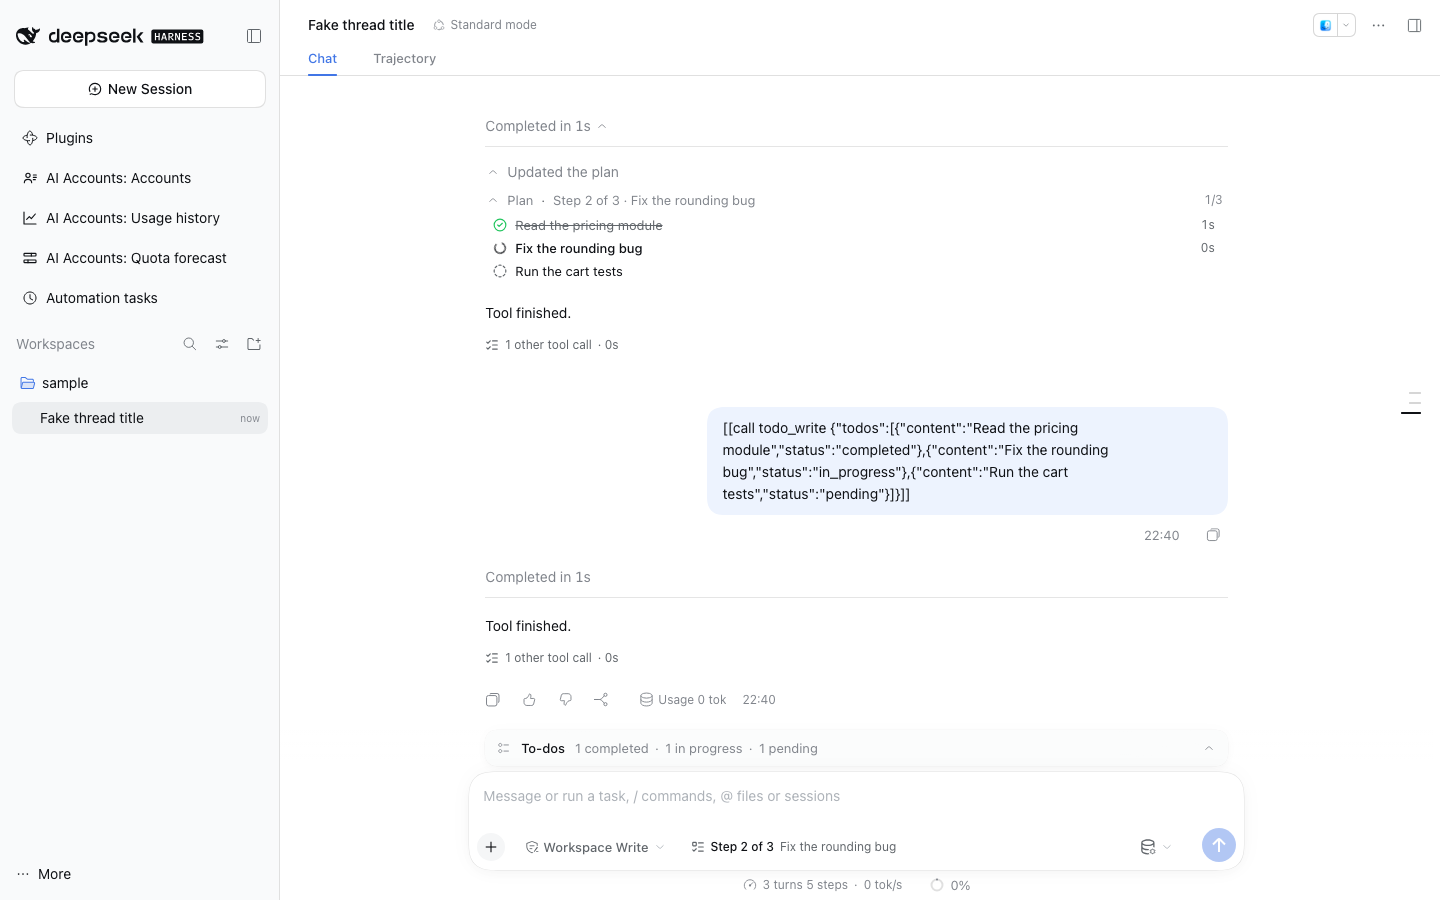
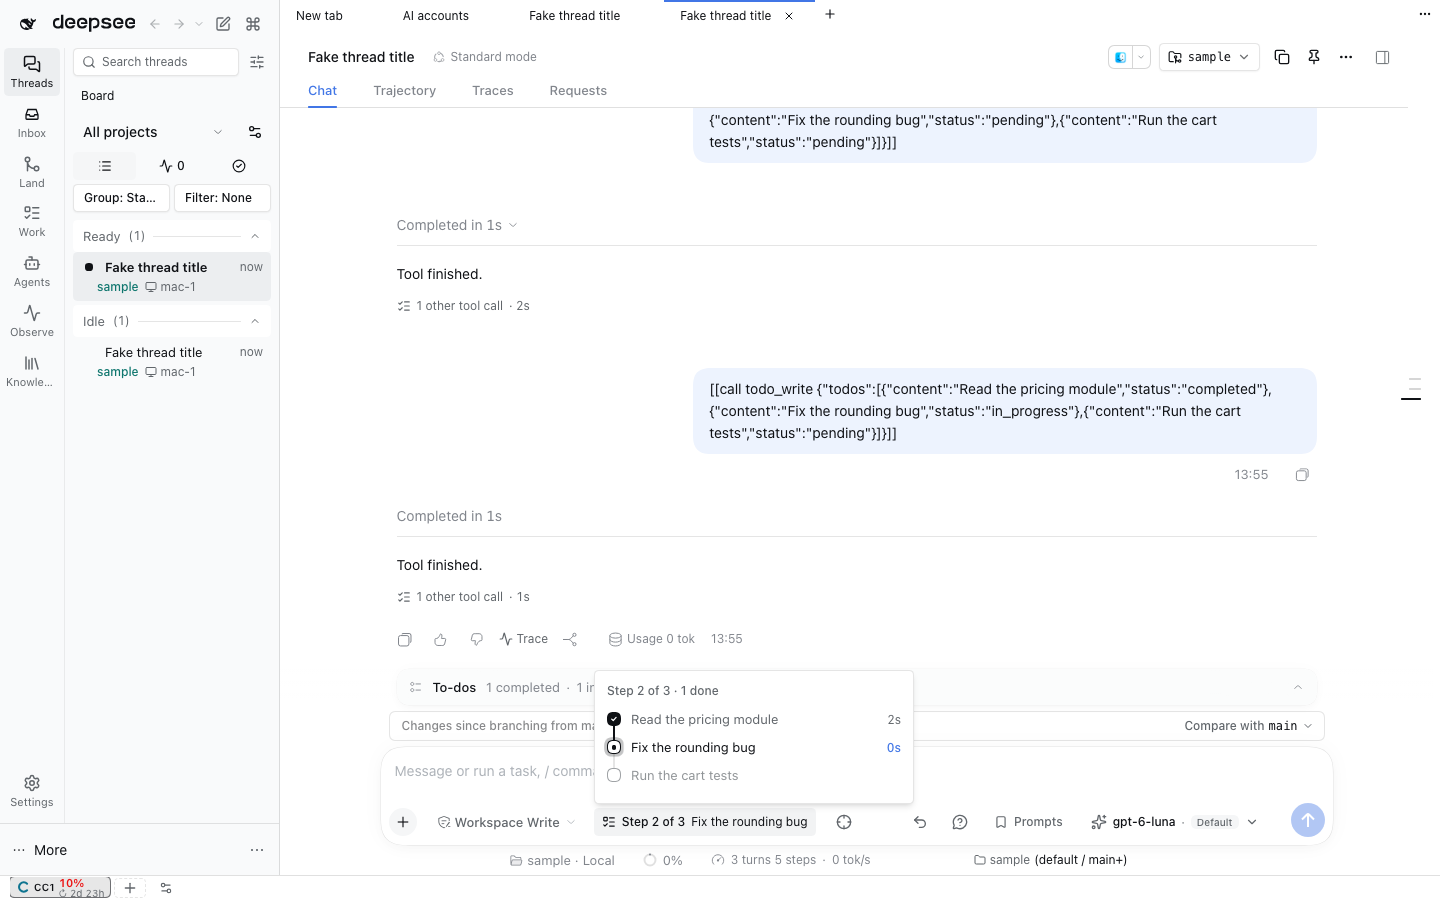
feat(agent-plan): draw plan steps with the kit StepTrail
The plan card and the pinned-step popover listed steps as glyph rows with a
line-through for finished ones. A plan is the case StepTrail exists for: done
steps pop a check and fill the connector down to the current step, which
pulses, and pending steps stay hollow, so progress reads at a glance.

StepTrail gains size="sm" (24 px rows, small glyphs, body text) to fit a
card and a popover, and an accessibleLabel per step so each row keeps its
'Step N: …, status' name. With timing on, a finished step shows its duration
and the current step its running time.

diff --git a/plugins/@dshfiles/plugin-ui/src/components/motion/step-trail.tsx b/plugins/@dshfiles/plugin-ui/src/components/motion/step-trail.tsx
@@ -26,22 +26,26 @@ export interface TrailStep {
   readonly gateLabel?: React.ReactNode
   /** Substeps, shown under the step while it is active. */
   readonly substeps?: readonly TrailSubstep[]
+  /** The row's accessible name ("Step 2: Fix the bug, in progress"); defaults to its text. */
+  readonly accessibleLabel?: string
 }
 
 export interface StepTrailProps extends Omit<React.HTMLAttributes<HTMLOListElement>, 'children'> {
   readonly steps: readonly TrailStep[]
   readonly onStepClick?: (step: TrailStep) => void
+  /** `sm` fits a card or popover: smaller glyphs, 24 px rows, body-size text. */
+  readonly size?: 'sm' | 'default'
 }
 
 /**
  * An agent's plan as a vertical trail: finished steps get a check that pops in and the connector fills down to the
  * next one, the current step pulses and unfolds its substeps, and a gated step shows the approval it will ask for.
  */
-export function StepTrail({ steps, onStepClick, className, ...props }: StepTrailProps) {
+export function StepTrail({ steps, onStepClick, size = 'default', className, ...props }: StepTrailProps) {
   return (
     <ol aria-label="Plan" className={cn('dshx:@container dshx:flex dshx:flex-col', className)} {...props}>
       {steps.map((step, index) => (
-        <TrailRow key={step.id} step={step} last={index === steps.length - 1} onStepClick={onStepClick} />
+        <TrailRow key={step.id} step={step} last={index === steps.length - 1} onStepClick={onStepClick} size={size} />
       ))}
     </ol>
   )
@@ -51,11 +55,14 @@ function TrailRow({
   step,
   last,
   onStepClick,
+  size,
 }: {
   readonly step: TrailStep
   readonly last: boolean
   readonly onStepClick: ((step: TrailStep) => void) | undefined
+  readonly size: 'sm' | 'default'
 }) {
+  const small = size === 'sm'
   const fillRef = React.useRef<HTMLSpanElement>(null)
   const filled = step.status === 'done'
   const firstFill = React.useRef(true)
@@ -76,7 +83,8 @@ function TrailRow({
     <span
       className={cn(
         // Narrow panes wrap to two lines instead of cutting the step name next to a pill.
-        'dshx:min-w-0 dshx:flex-1 dshx:truncate dshx:text-[15px] dshx:motion-safe:transition-colors dshx:@max-pane-narrow:line-clamp-2 dshx:@max-pane-narrow:text-sm dshx:@max-pane-narrow:leading-5 dshx:@max-pane-narrow:whitespace-normal',
+        'dshx:min-w-0 dshx:flex-1 dshx:truncate dshx:motion-safe:transition-colors dshx:@max-pane-narrow:line-clamp-2 dshx:@max-pane-narrow:text-sm dshx:@max-pane-narrow:leading-5 dshx:@max-pane-narrow:whitespace-normal',
+        small ? 'dshx:text-sm' : 'dshx:text-[15px]',
         step.status === 'done' && 'dshx:text-muted-foreground',
         step.status === 'active' && 'dshx:text-foreground',
         step.status === 'pending' && 'dshx:text-muted-foreground/70',
@@ -88,10 +96,18 @@ function TrailRow({
   )
 
   return (
-    <li className="dshx:relative dshx:flex dshx:gap-3.5" aria-current={step.status === 'active' ? 'step' : undefined}>
-      <div className="dshx:relative dshx:flex dshx:w-5 dshx:shrink-0 dshx:flex-col dshx:items-center">
-        <span className="dshx:flex dshx:h-8 dshx:items-center">
-          <StepGlyph status={step.status === 'gated' ? 'locked' : step.status} />
+    <li
+      className={cn('dshx:relative dshx:flex', small ? 'dshx:gap-2.5' : 'dshx:gap-3.5')}
+      aria-current={step.status === 'active' ? 'step' : undefined}
+      aria-label={step.accessibleLabel}
+    >
+      <div className={cn('dshx:relative dshx:flex dshx:shrink-0 dshx:flex-col dshx:items-center', small ? 'dshx:w-3.5' : 'dshx:w-5')}>
+        <span className={cn('dshx:flex dshx:items-center', small ? 'dshx:h-6' : 'dshx:h-8')}>
+          <StepGlyph
+            aria-hidden={step.accessibleLabel !== undefined || undefined}
+            size={small ? 'sm' : 'default'}
+            status={step.status === 'gated' ? 'locked' : step.status}
+          />
         </span>
         {!last ? (
           <span aria-hidden className="dshx:relative dshx:-my-1.5 dshx:w-[1.5px] dshx:flex-1 dshx:overflow-hidden dshx:rounded-full dshx:bg-border">
@@ -100,7 +116,12 @@ function TrailRow({
         ) : null}
       </div>
       <div className="dshx:flex dshx:min-w-0 dshx:flex-1 dshx:flex-col dshx:pb-1">
-        <div className="dshx:flex dshx:min-h-8 dshx:items-center dshx:gap-3 dshx:@max-pane-narrow:gap-2 dshx:@max-pane-narrow:py-1.5">
+        <div
+          className={cn(
+            'dshx:flex dshx:items-center dshx:gap-3 dshx:@max-pane-narrow:gap-2',
+            small ? 'dshx:min-h-6' : 'dshx:min-h-8 dshx:@max-pane-narrow:py-1.5',
+          )}
+        >
           {onStepClick !== undefined ? (
             <button
               type="button"
@@ -112,7 +133,7 @@ function TrailRow({
           ) : (
             label
           )}
-          <StepMeta step={step} />
+          <StepMeta step={step} small={small} />
         </div>
         <AutoHeight>{substeps.length > 0 ? <Substeps substeps={substeps} /> : null}</AutoHeight>
       </div>
@@ -120,14 +141,14 @@ function TrailRow({
   )
 }
 
-function StepMeta({ step }: { readonly step: TrailStep }) {
+function StepMeta({ step, small }: { readonly step: TrailStep; readonly small: boolean }) {
   const ref = React.useRef<HTMLSpanElement>(null)
   useEnter(ref, 'blurIn', { duration: 0.3 }, step.status)
   let content: React.ReactNode = null
   if (step.status === 'done' && step.meta !== undefined)
-    content = <span className="dshx:text-sm dshx:text-muted-foreground dshx:tabular-nums">{step.meta}</span>
+    content = <span className={cn('dshx:text-muted-foreground dshx:tabular-nums', small ? 'dshx:text-xs' : 'dshx:text-sm')}>{step.meta}</span>
   else if (step.status === 'active' && step.activeLabel !== undefined)
-    content = <span className="dshx:text-sm dshx:font-medium dshx:text-info">{step.activeLabel}</span>
+    content = <span className={cn('dshx:font-medium dshx:text-info dshx:tabular-nums', small ? 'dshx:text-xs' : 'dshx:text-sm')}>{step.activeLabel}</span>
   else if (step.status === 'gated' && step.gateLabel !== undefined)
     content = (
       <span className="dshx:rounded-full dshx:bg-warning/15 dshx:px-2.5 dshx:py-0.5 dshx:text-[13px] dshx:font-medium dshx:whitespace-nowrap dshx:text-warning dshx:@max-pane-narrow:px-2 dshx:@max-pane-narrow:text-xs">

diff --git a/plugins/@dshfiles/agent-plan/src/plan-steps.tsx b/plugins/@dshfiles/agent-plan/src/plan-steps.tsx
@@ -1,38 +1,26 @@
-import { StepGlyph, type StepGlyphStatus } from '@dshfiles/plugin-ui/components/motion/step-glyph'
-import { cn } from '@dshfiles/plugin-ui/lib/utils'
+import { StepTrail, type TrailStepStatus } from '@dshfiles/plugin-ui/components/motion/step-trail'
 import { PlanProgress, type PlanStep } from './plan-progress.js'
 
-const GLYPH_STATUS = { completed: 'done', in_progress: 'running', pending: 'pending' } as const satisfies Record<PlanStep['status'], StepGlyphStatus>
+const TRAIL_STATUS = { completed: 'done', in_progress: 'active', pending: 'pending' } as const satisfies Record<PlanStep['status'], TrailStepStatus>
 
 const STATUS_LABEL = { completed: 'done', in_progress: 'in progress', pending: 'pending' } as const
 
-/** The steps of a plan with done / active / pending glyphs and, when timing is on, how long each took. */
+/** The steps of a plan as a kit step trail and, when timing is on, how long each took or has run so far. */
 export const PlanSteps = (props: { readonly steps: readonly PlanStep[]; readonly now: number; readonly timing: boolean }): JSX.Element => (
-  <ol aria-label="Plan steps" className="dshx:flex dshx:flex-col dshx:gap-1 dshx:text-sm" data-dshfiles-agent-plan-steps="">
-    {props.steps.map((step, index) => {
+  <StepTrail
+    aria-label="Plan steps"
+    data-dshfiles-agent-plan-steps=""
+    size="sm"
+    steps={props.steps.map((step, index) => {
       const elapsed = props.timing ? PlanProgress.elapsed(step, props.now) : undefined
-      return (
-        <li
-          aria-label={`Step ${index + 1}: ${step.content}, ${STATUS_LABEL[step.status]}`}
-          className="dshx:flex dshx:min-w-0 dshx:items-center dshx:gap-2"
-          data-status={step.status}
-          key={step.content}
-        >
-          <StepGlyph aria-hidden size="sm" status={GLYPH_STATUS[step.status]} tone="success" />
-          <span
-            className={cn(
-              'dshx:min-w-0 dshx:flex-1 dshx:truncate',
-              step.status === 'completed' && 'dshx:text-muted-foreground dshx:line-through',
-              step.status === 'in_progress' && 'dshx:font-medium',
-            )}
-          >
-            {step.content}
-          </span>
-          {elapsed !== undefined && (
-            <span className="dshx:shrink-0 dshx:text-xs dshx:tabular-nums dshx:text-muted-foreground">{PlanProgress.formatDuration(elapsed)}</span>
-          )}
-        </li>
-      )
+      const duration = elapsed === undefined ? undefined : PlanProgress.formatDuration(elapsed)
+      return {
+        id: step.content,
+        label: step.content,
+        status: TRAIL_STATUS[step.status],
+        accessibleLabel: `Step ${index + 1}: ${step.content}, ${STATUS_LABEL[step.status]}`,
+        ...(duration !== undefined && { meta: duration, activeLabel: duration }),
+      }
     })}
-  </ol>
+  />
 )
